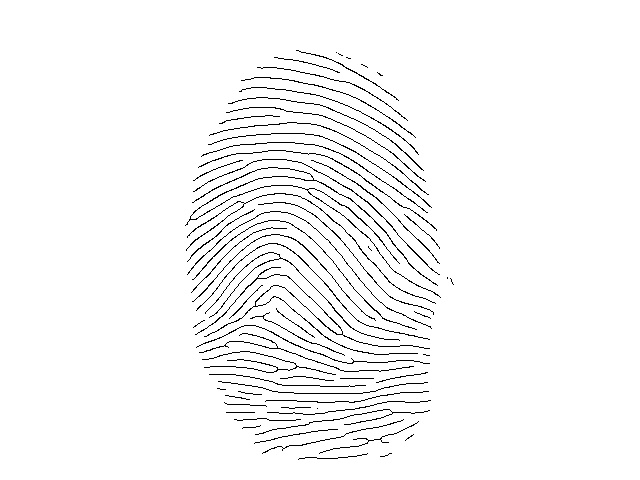
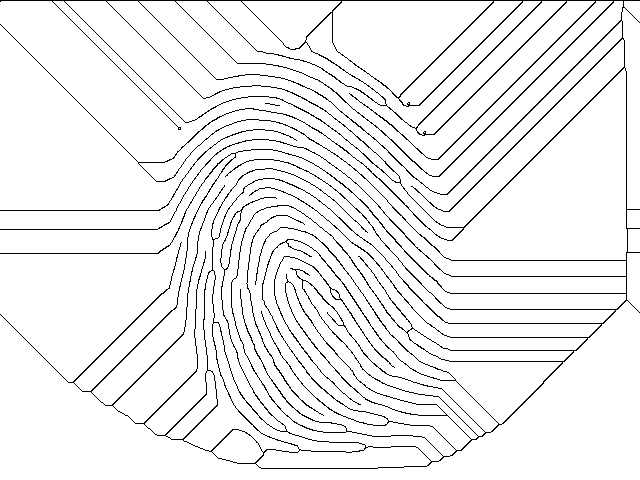
added rotation correction

diff --git a/rotation.py b/rotation.py
@@ -1,0 +1,28 @@
+from sklearn.cluster import KMeans
+from sklearn.decomposition import PCA
+import cv2
+import numpy as np
+
+def correctrotation(image):
+	points = [[i, j, image[i, j]] for i in range(image.shape[0]) for j in range(image.shape[1]) if image[i][j] < 60]
+	points = np.array(points)
+	kmeans = KMeans(n_clusters = 2, random_state = 3).fit(points)
+	mat = kmeans.cluster_centers_
+	num = abs(mat[0][0] - mat[1][0])
+	den = abs(mat[0][1] - mat[1][1])
+	angle = np.arctan(num/den)*180/np.pi
+	if(mat[0][1] < mat[1][1]): return angle-90
+	else: return 90-angle
+
+## test
+img = cv2.imread("102_2.jpg", 0)
+img = 255 - img
+rows, cols = img.shape
+M = cv2.getRotationMatrix2D((cols/2,rows/2),40,1)
+dst = cv2.warpAffine(img,M,(cols,rows))
+dst = 255 - dst
+cv2.imwrite("rotated.jpg", dst)
+angle = correctrotation(dst)
+print(angle)
+
+

diff --git a/test.py b/test.py
@@ -4,8 +4,8 @@ import numpy as np
 image = cv2.imread("enh.jpg", 0)
 for i in range(image.shape[0]):
 	for j in range(image.shape[1]):
-		if image[i][j] > 50: image[i][j] =1
-		else: image[i][j] = 0
+		if image[i][j] > 50: image[i][j] =0
+		else: image[i][j] = 1
 print("done")
 #cv2.imwrite("intermediate.jpg", image*255)
 z = ZhangSuen(image)
